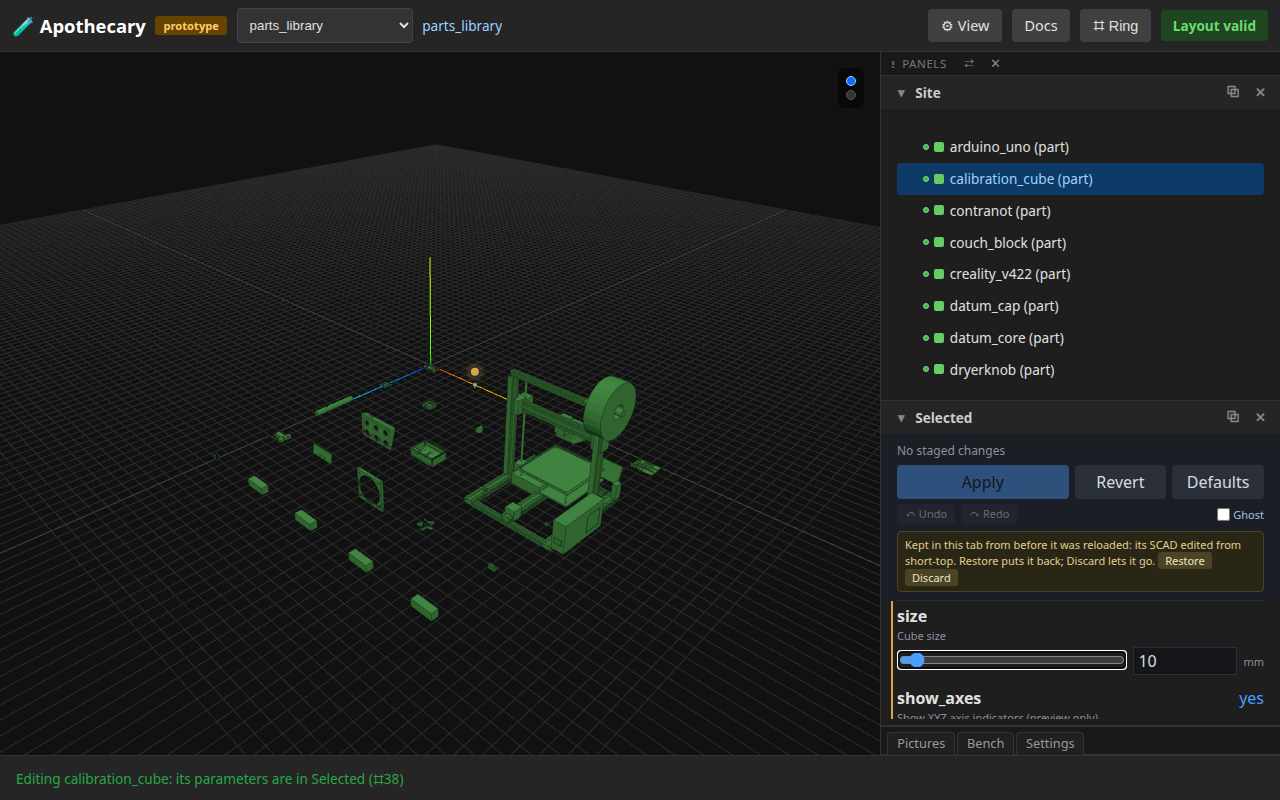
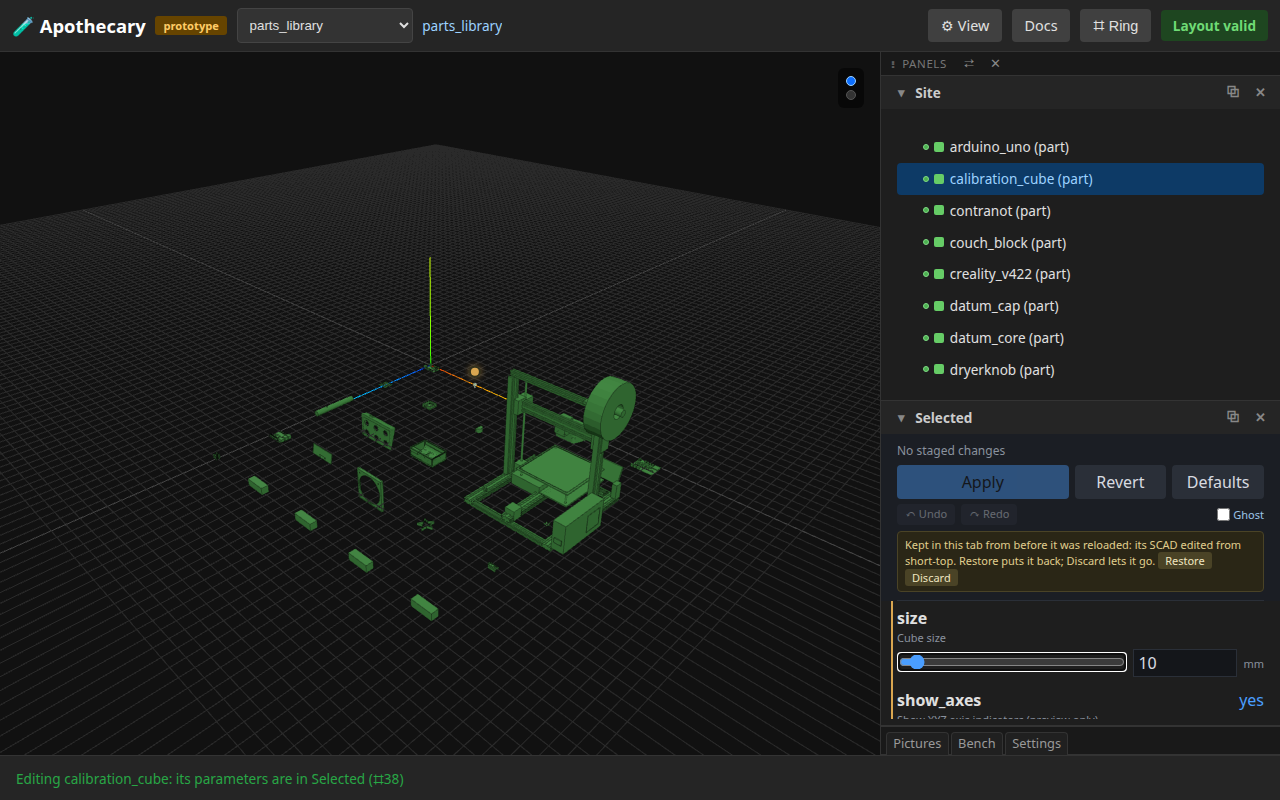
Walkthrough page 16 reads its render delay from the page, and says the server's folder is left out of it
Step 3's "300 ms after the check passes" was typed into the test beside
the template's SCAD_RENDER_AFTER_CHECK_MS; the test reads the constant, so
the sentence follows the page. The "does not show" list named only when a
variant was saved as what differs from run to run; the server's clone of
the checkout differs too, and is named in the words as the test server's
variants repository and blanked in the status line's picture, so the
bullet says both.

The page is as two runs of its test wrote it, identical both times. Its
pictures 16-01, 16-02 and 16-12 are retaken: they differ from the committed
ones in the hint bar and the tab strip, as the header's commit left them,
and draw the gridfinity part from the STL the committed ones drew it from.
16-04 is left as committed, since it draws an empty world on every run here.

Tools: Claude Code, under review; the design review's lead.

Changed region(s): [[0.6875, 0.75, 0.9062, 0.9375], [0.9688, 0.875, 1.0, 0.9062]]

diff --git a/tests/e2e/test_scad_loop.py b/tests/e2e/test_scad_loop.py
@@ -55,6 +55,14 @@ RUN_CLONE = re.compile(r"/[^\s`'\"]*?/server\d*/variants\.git")
 # where the status line names it.
 BLANK = (*all_words(".saved-when"), ("#status", RUN_CLONE.pattern))
 
+# How long after a check that passes the page renders a SCAD edit, read from the page.
+RENDER_AFTER_CHECK_MS = int(
+    re.search(
+        r"const SCAD_RENDER_AFTER_CHECK_MS = (\d+);",
+        (ROOT / "templates" / "fractal_viewer.html.j2").read_text(encoding="utf-8"),
+    ).group(1)
+)
+
 REFUSED = 'assert(size < 5, "too big to keep");'
 SMALL_TOP = "translate([0, 0, size]) cube(size / 2);"
 BIG_TOP = "translate([0, 0, size]) cube(size);"
@@ -358,8 +366,10 @@ def test_editing_a_parts_scad_twice_round(
             "writes the checkout.",
             "**A part without a model.** Its controls come from what its SCAD declares, "
             "where the OpenSCAD in use lists them; calibration_cube has a model.",
-            "**When a variant was saved.** It differs on every run, so the lists' times "
-            "are blanked in the pictures.",
+            "**When a variant was saved, and where the server keeps it.** Both differ on "
+            "every run: the lists' times are blanked in the pictures, and the server's clone "
+            "of the checkout is named as the test server's variants repository in the "
+            "words and blanked where the status line shows it.",
             "**The way back to the saved part.** Part › Defaults, then Apply, draws the "
             "part's own SCAD and numbers again, as walkthrough 14 does for its numbers.",
         ],
@@ -441,7 +451,8 @@ def test_editing_a_parts_scad_twice_round(
     story.shows(
         "A change that reads is rendered soon after its check",
         "The line replaced with a smaller cube on top. Checked once typing stops, and "
-        "300 ms after the check passes rendered as Apply renders, from the edited SCAD "
+        f"{RENDER_AFTER_CHECK_MS} ms after the check passes rendered as Apply renders, "
+        "from the edited SCAD "
         "written beside the part, and drawn in this tab, 15 mm tall now: an applied "
         "variant, not saved, the view brought to it by hand, Shift+drag and the wheel. "
         "Taller than the envelope its numbers declare, the envelope's line turns amber and "

diff --git a/walkthrough/16-editing-a-parts-scad.md b/walkthrough/16-editing-a-parts-scad.md
@@ -117,7 +117,7 @@ Restore: the draft back in the editor, checked, its refusal marked. Then v_slot'
 
 - **Making a variant the part's source.** That is a merge you do (`git merge refs/apothecary/variants/<part>/<name>`); no control in the page writes the checkout.
 - **A part without a model.** Its controls come from what its SCAD declares, where the OpenSCAD in use lists them; calibration_cube has a model.
-- **When a variant was saved.** It differs on every run, so the lists' times are blanked in the pictures.
+- **When a variant was saved, and where the server keeps it.** Both differ on every run: the lists' times are blanked in the pictures, and the server's clone of the checkout is named as the test server's variants repository in the words and blanked where the status line shows it.
 - **The way back to the saved part.** Part › Defaults, then Apply, draws the part's own SCAD and numbers again, as walkthrough 14 does for its numbers.
 
 Run it yourself:
